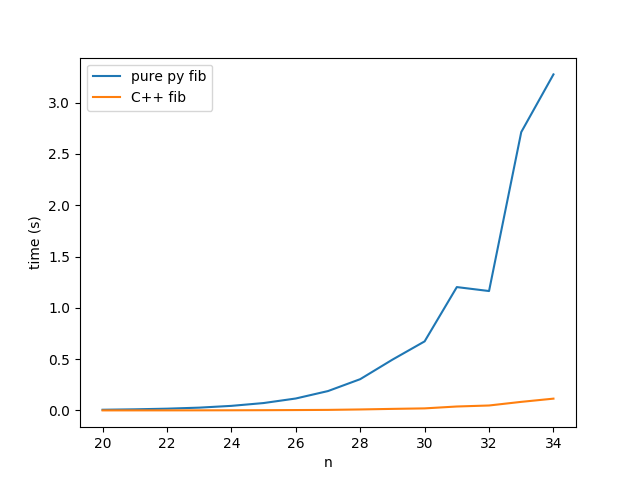
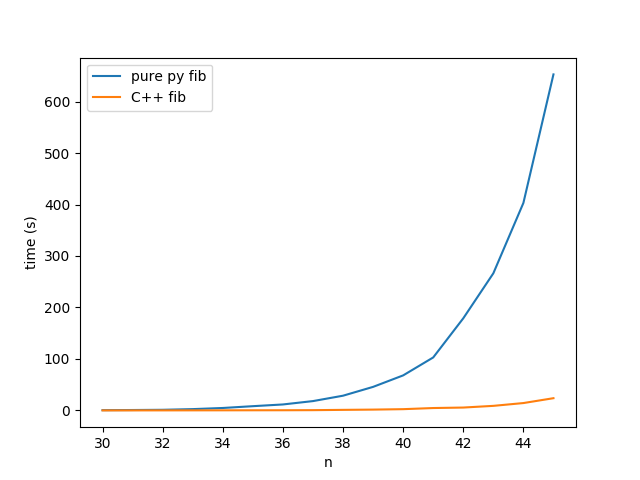
savefig for n 30-45, MA4_2 updated

diff --git a/MA4/MA4_files/MA4_2.py b/MA4/MA4_files/MA4_2.py
@@ -19,7 +19,7 @@ def main():
 	c_integer_times = []
 	
 	######### N = 30:45 #########
-	n_range = range(20, 35)
+	n_range = range(30, 46)
 	for i in n_range:
 		start = pc()
 		print('pure fib of ', i, ': ', fib_pure_py(i))
